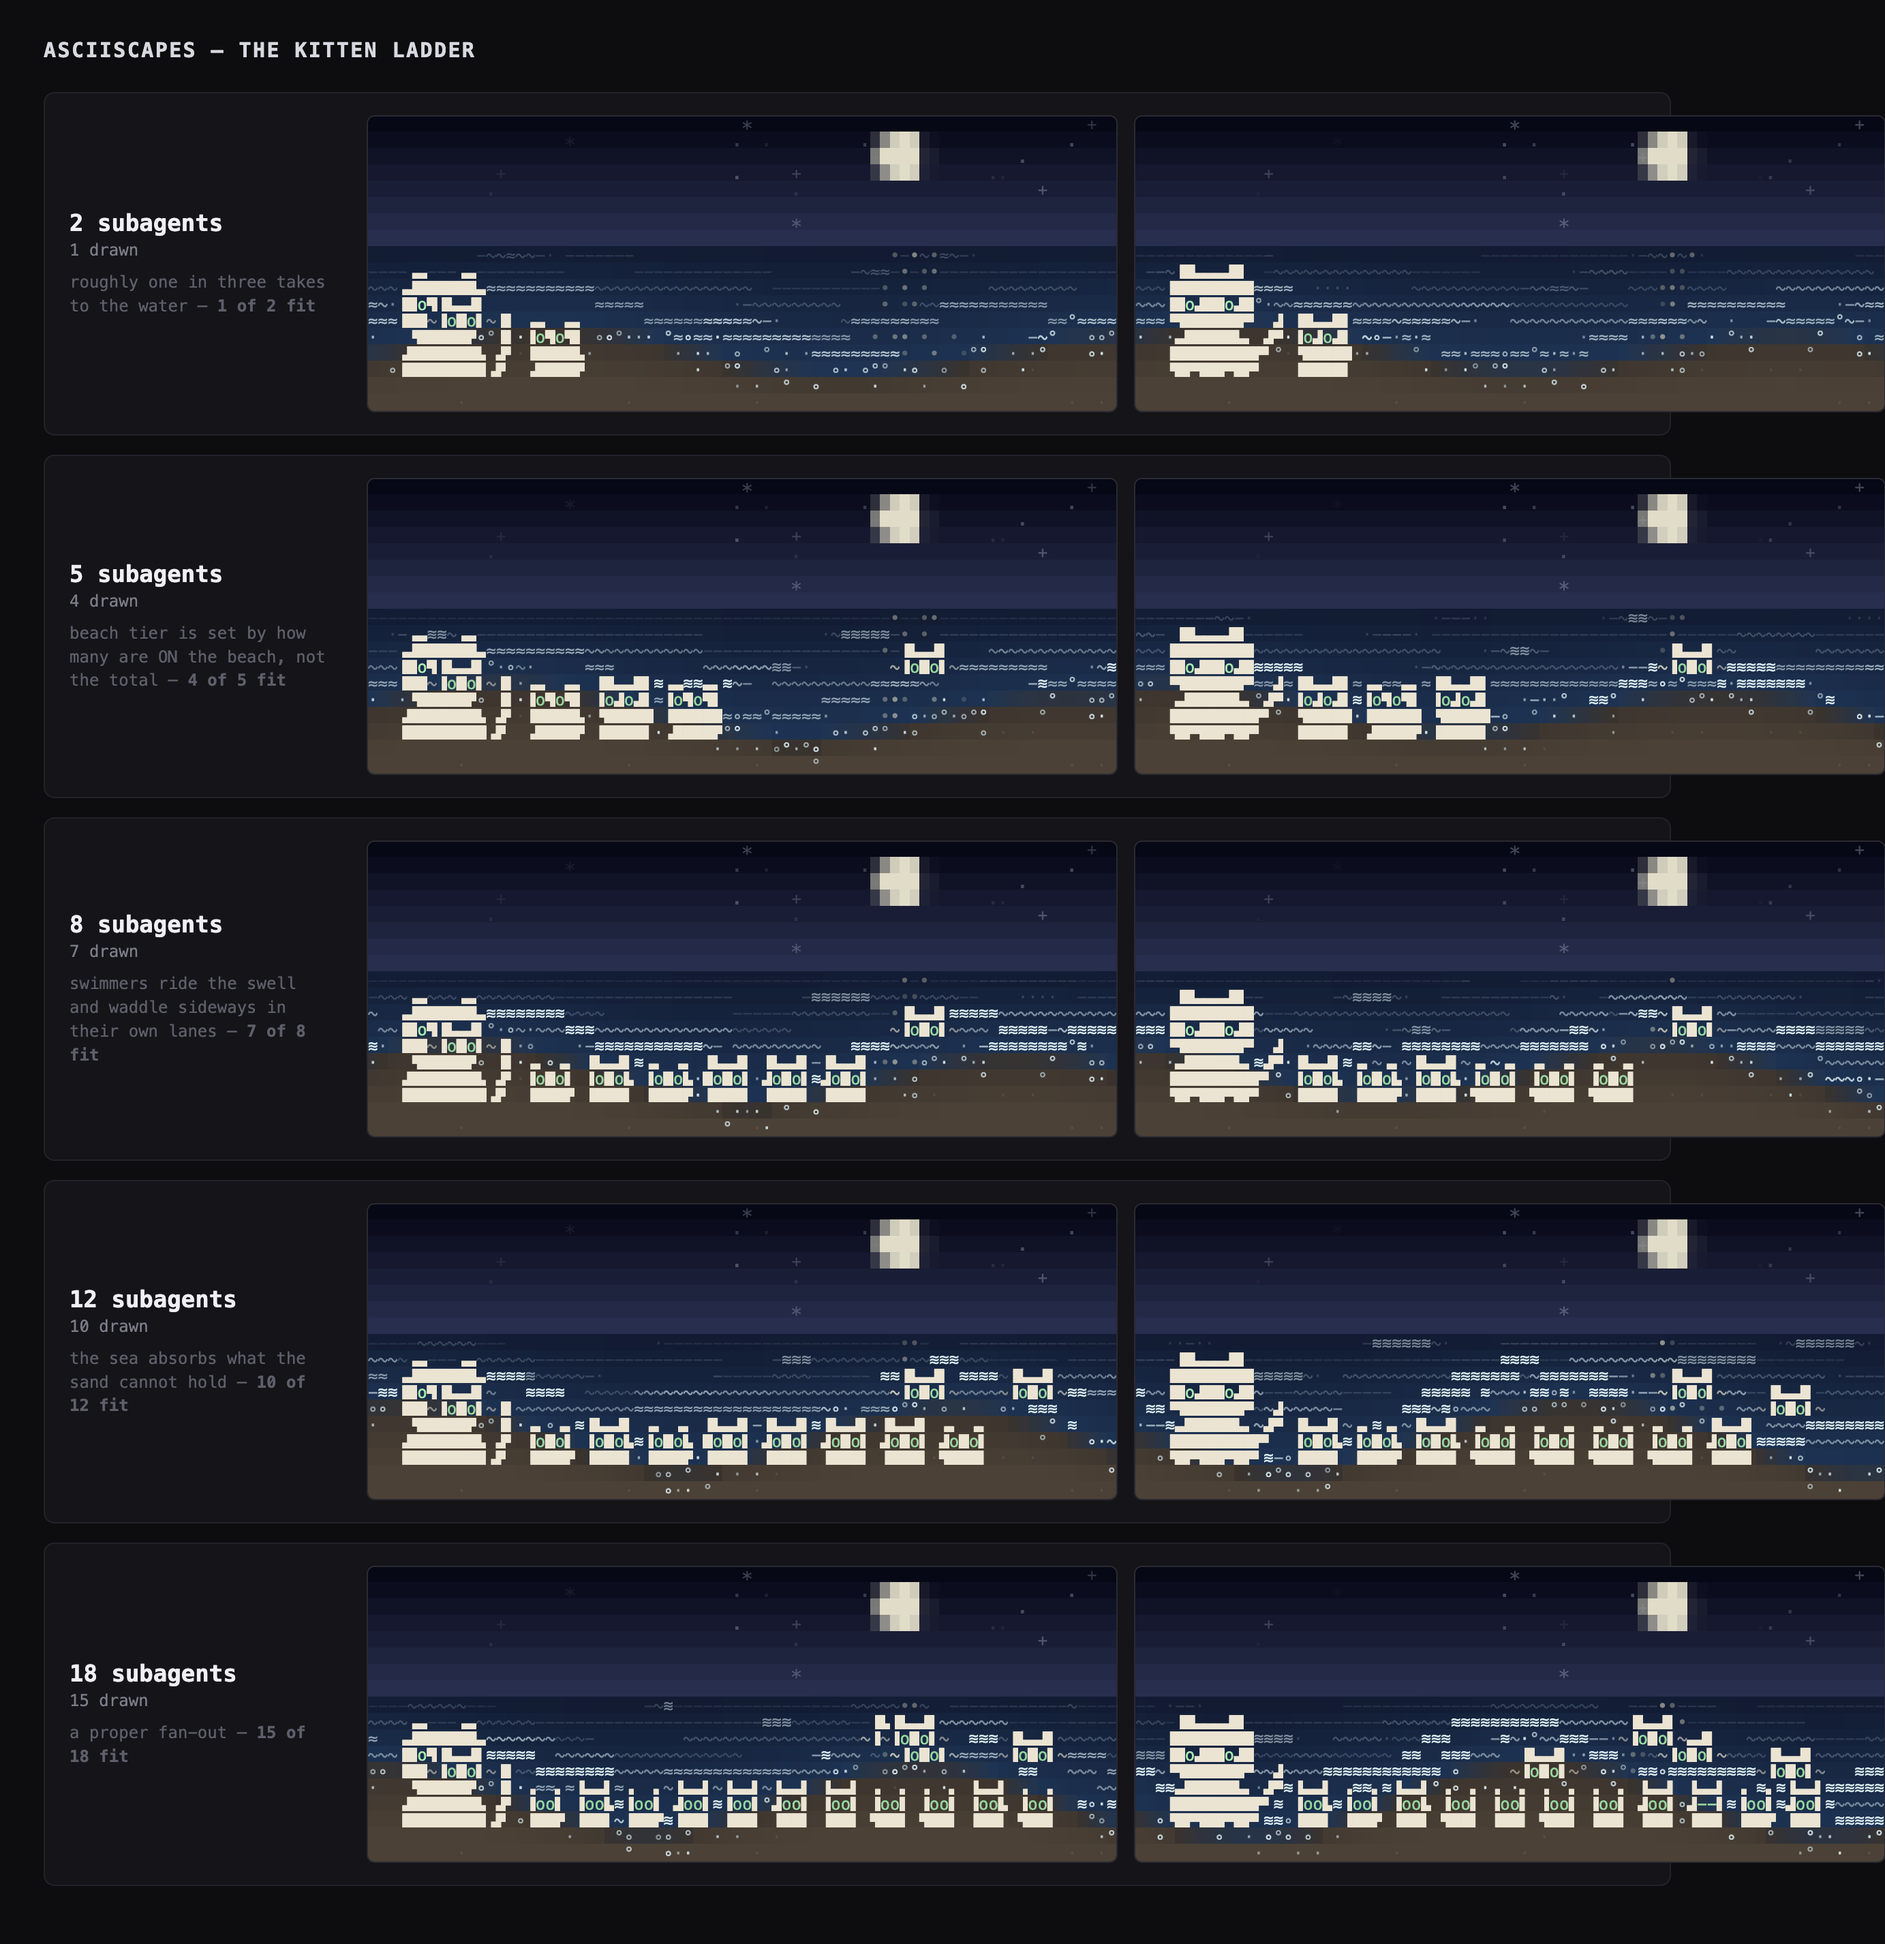
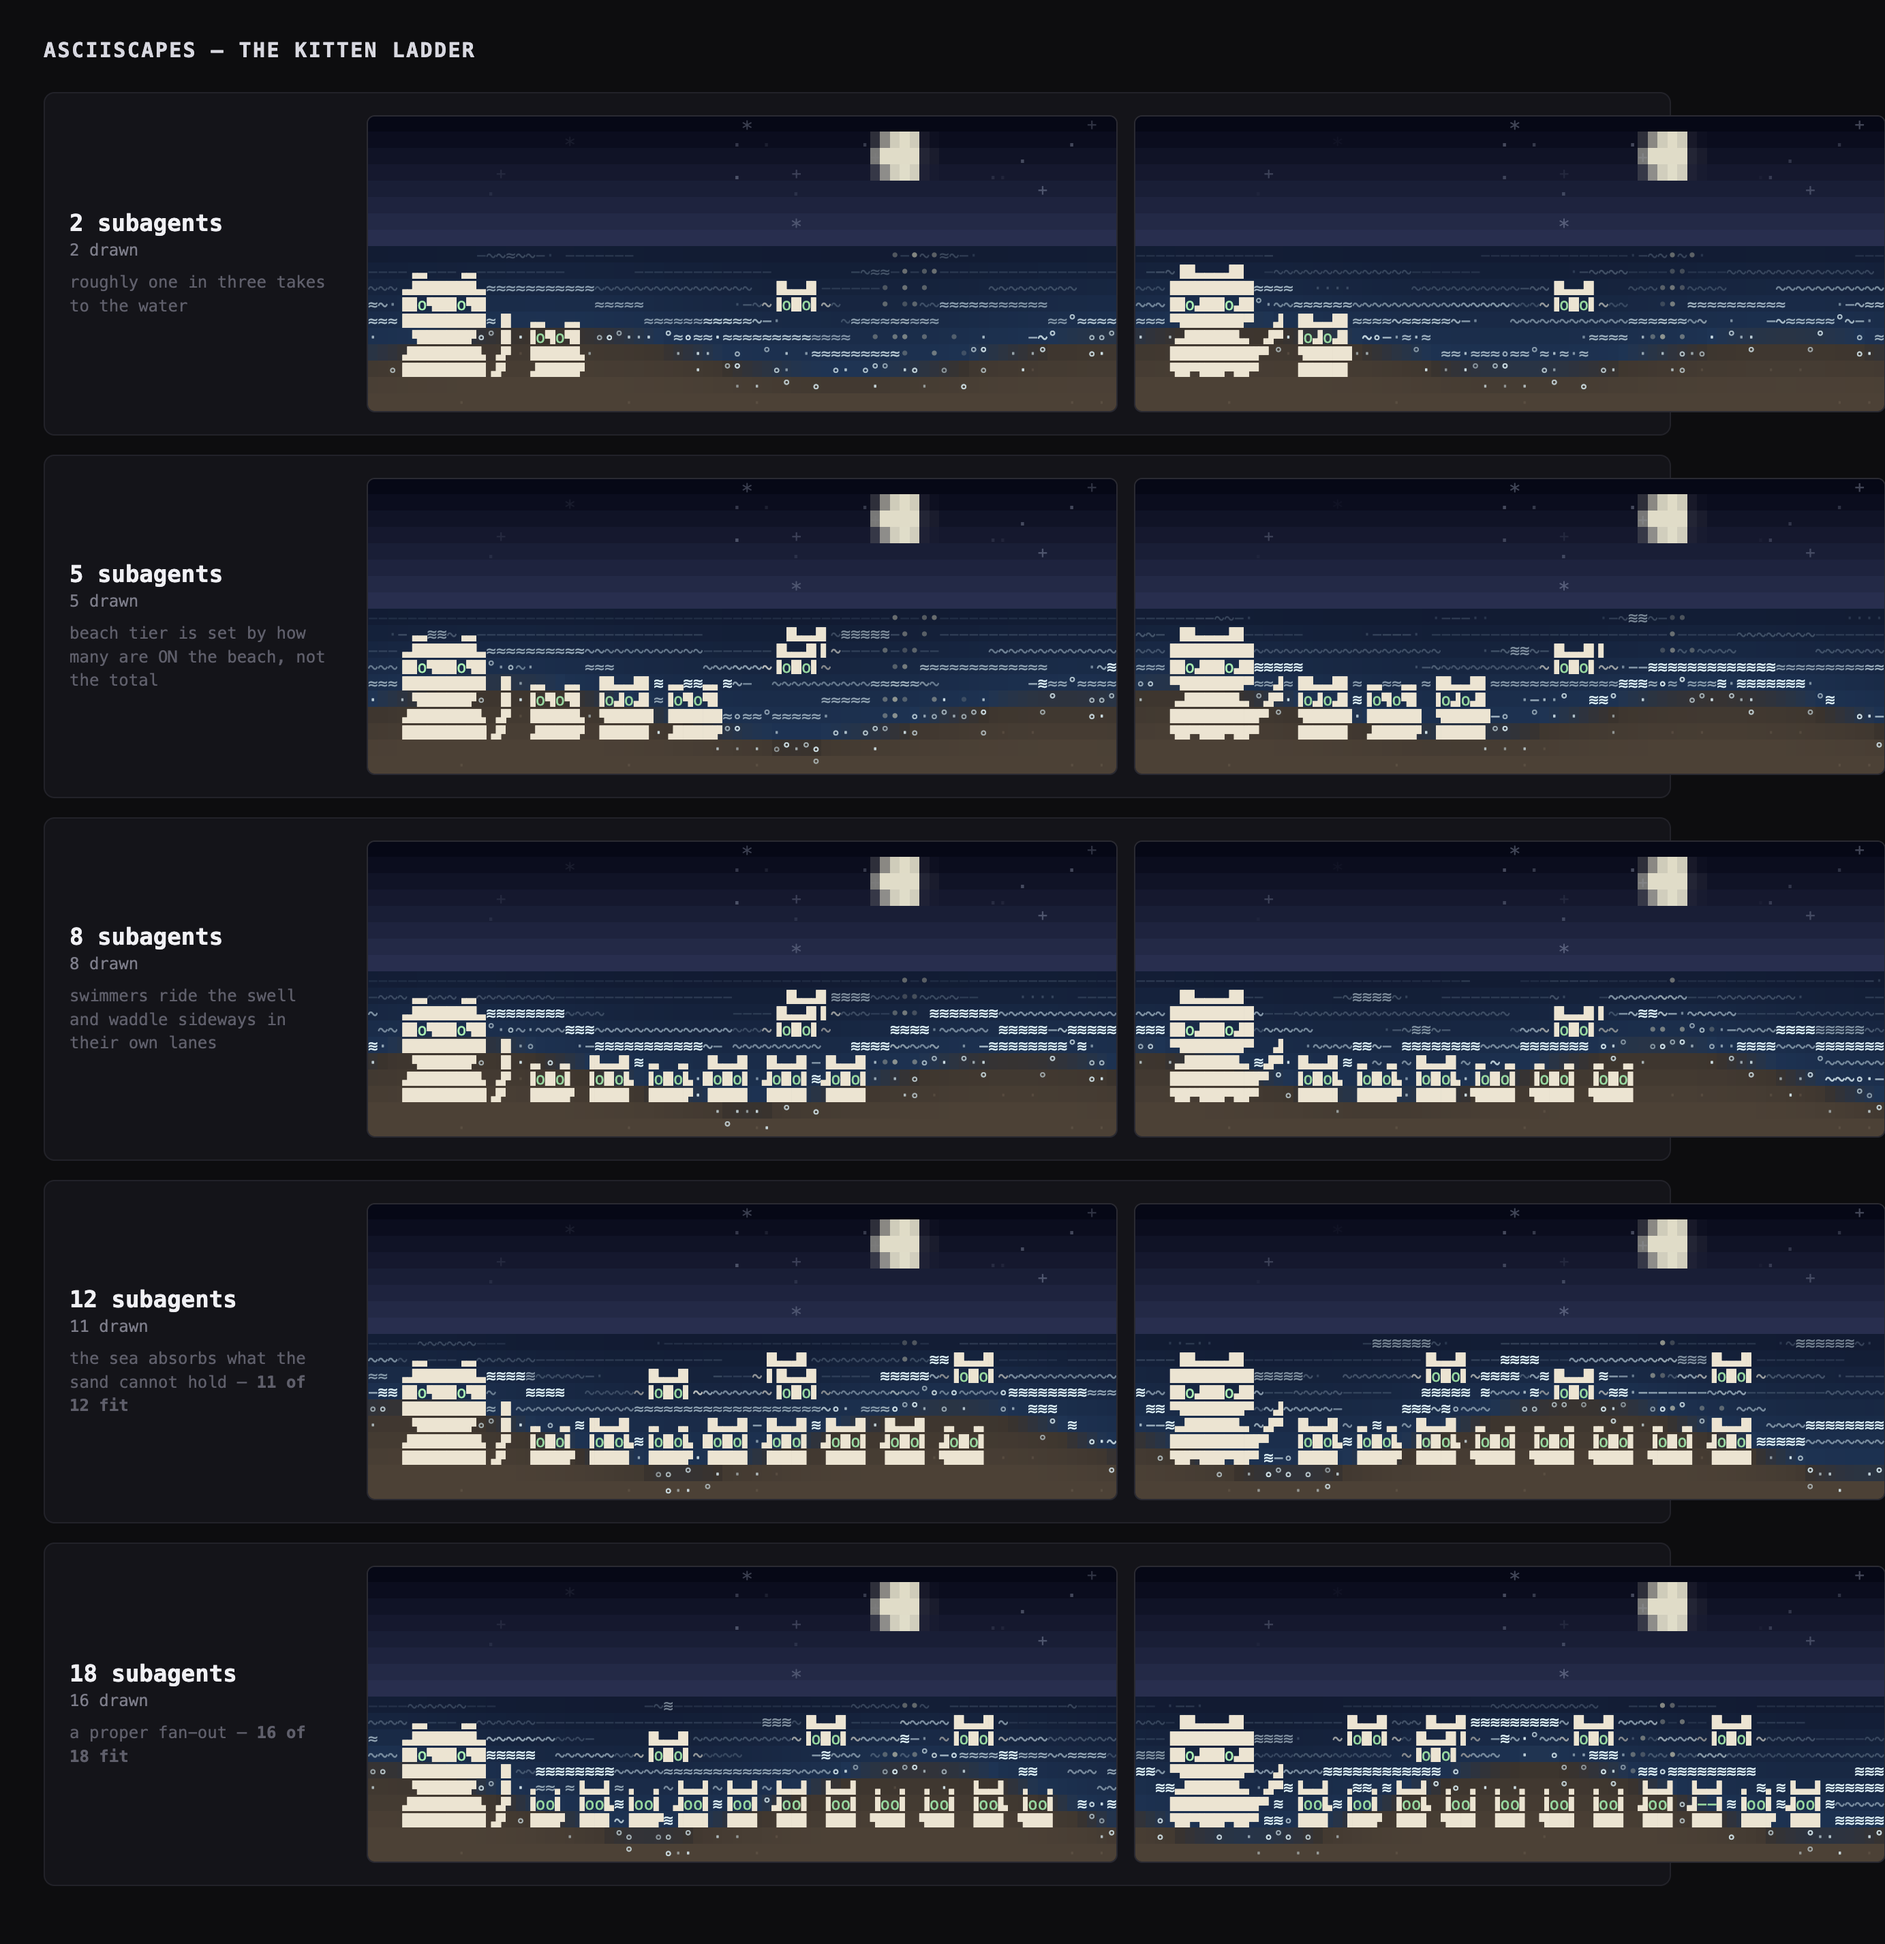
Stop swimmers overlapping each other and the parent
Two separate collisions.

Swimmer on swimmer: home columns were random, which looks fine at three
and piles them on top of each other at twelve. Positions are slotted
now -- each lane divides its width evenly so every swimmer owns a slot,
and the waddle is bounded by whatever slack is left in it.

Swimmer on parent: they started at px+2, which is inside the parent's
twelve-cell footprint, and they are drawn on the same layer afterwards,
so they painted straight over its face. They now start clear of it, like
the sitters do.

Claude-Session: https://claude.ai/code/session_019PBtf39rtmaj5ru2XNdm5i

diff --git a/internal/companion/kittens.go b/internal/companion/kittens.go
@@ -189,7 +189,12 @@ func (c *Cat) kitTail(b *Bitmap, segs, srcW int, wag float64, lift int) {
 }
 
 // drawSwimmers puts kittens in the sea, bobbing on the swell and waddling
-// slowly sideways. Each one keeps its own lane, so they do not converge.
+// slowly sideways.
+//
+// Positions are SLOTTED, not random. Each swimmer gets a lane, and within a
+// lane the width is divided evenly so every swimmer owns a slot; the waddle is
+// then bounded by whatever slack is left in that slot. Random home columns
+// looked fine at three swimmers and piled them on top of each other at twelve.
 func (c *Cat) drawSwimmers(l *canvas.Layer, idx []int, px, py, w, seaTop int, t float64, seed int64) int {
 	if len(idx) == 0 {
 		return 0
@@ -198,62 +203,97 @@ func (c *Cat) drawSwimmers(l *canvas.Layer, idx []int, px, py, w, seaTop int, t 
 		c.swim = ParseBitmap(KittenSwim)
 	}
 	kw, kh := c.swim.W/2, c.swim.H/4
-	// Open water runs from just under the horizon down to just above the sand.
-	// It is NOT the strip above the parent's head -- the parent stands on the
-	// beach in front of the sea, so its rows overlap the water it is standing
-	// before. Measuring the zone that way left one row and drew no swimmers.
+	// Open water runs from just under the horizon down to a clear row above the
+	// sand, so a swimmer in the lowest lane cannot touch a sitter's ears.
 	_, ph := c.Size()
 	top := seaTop + 1
-	bot := py + ph - 3
+	bot := py + ph - 4
 	lanes := bot - top
 	if lanes < 1 {
 		return 0
 	}
-	wake := '~'
+
+	// Bucket by lane, keeping index order so the layout is deterministic.
+	byLane := make([][]int, lanes)
+	for _, i := range idx {
+		ln := int(HashF(i, 13, seed) * float64(lanes))
+		if ln >= lanes {
+			ln = lanes - 1
+		}
+		byLane[ln] = append(byLane[ln], i)
+	}
+
+	// Start clear of the parent. Swimmers are drawn on the same layer and after
+	// it, so anything overlapping its footprint paints straight over its face.
+	pw, _ := c.Size()
+	x0 := px + pw + 1
+	span := w - x0 - 1
+	if span < kw+2 {
+		return 0
+	}
 	drawn := 0
 
-	for k, i := range idx {
-		phase := HashF(i, 12, seed) * 6.283
-		// Lane and home column are fixed per subagent; only the wander moves.
-		lane := int(HashF(i, 13, seed) * float64(lanes))
-		home := px + 2 + int(HashF(i, 14, seed)*float64(w-px-8))
-		x := home + int(2.5*math.Sin(t*0.32+phase))
-		y := top + lane
-
-		// Ride the swell rather than bobbing on a private clock.
-		if math.Sin(t*0.9+float64(x)*0.16+phase) > 0.35 {
-			y--
-		}
-		if x < 1 || x+kw >= w || y < top || y+kh > bot {
+	for ln := 0; ln < lanes; ln++ {
+		members := byLane[ln]
+		if len(members) == 0 {
 			continue
 		}
+		slot := span / len(members)
+		if slot < kw+1 {
+			// Lane is oversubscribed; take what fits and drop the rest.
+			members = members[:max(1, span/(kw+1))]
+			slot = span / len(members)
+		}
+		for k, i := range members {
+			phase := HashF(i, 12, seed) * 6.283
+			slack := (slot - kw) / 2
+			if slack > 3 {
+				slack = 3
+			}
+			if slack < 0 {
+				slack = 0
+			}
+			x := x0 + k*slot + (slot-kw)/2 + int(float64(slack)*math.Sin(t*0.32+phase))
+			y := top + ln
+			// Ride the swell rather than bobbing on a private clock.
+			if math.Sin(t*0.9+float64(x)*0.16+phase) > 0.35 {
+				y--
+			}
+			if x < 1 || x+kw >= w || y < top || y+kh > bot {
+				continue
+			}
 
-		f := c.swim.Blank()
-		for sy := 0; sy < f.H; sy++ {
-			for sx := 0; sx < f.W; sx++ {
-				if c.swim.at(sx, sy) {
-					f.Set(sx, sy)
+			f := c.swim.Blank()
+			for sy := 0; sy < f.H; sy++ {
+				for sx := 0; sx < f.W; sx++ {
+					if c.swim.at(sx, sy) {
+						f.Set(sx, sy)
+					}
 				}
 			}
-		}
-		if HashF(i, 15, seed) > 0.5 {
-			f = f.Mirrored()
-		}
-		(&Sprite{Rows: f.ToQuadrant(), Body: furCol, Alpha: 1}).Draw(l, x, y)
+			if HashF(i, 15, seed) > 0.5 {
+				f = f.Mirrored()
+			}
+			(&Sprite{Rows: f.ToQuadrant(), Body: furCol, Alpha: 1}).Draw(l, x, y)
 
-		e := eyeCols["kittenSwim"]
-		glyph := 'o'
-		if math.Mod(t+phase, 4.2+HashF(i, 16, seed)*3) < 0.17 {
-			glyph = '-'
+			e := eyeCols["kittenSwim"]
+			glyph := 'o'
+			if math.Mod(t+phase, 4.2+HashF(i, 16, seed)*3) < 0.17 {
+				glyph = '-'
+			}
+			l.Plot(x+e[0], y+1, glyph, kittenEye, 1)
+			l.Plot(x+e[1], y+1, glyph, kittenEye, 1)
+			l.Plot(x-1, y+kh-1, '~', furCol, 0.5)
+			l.Plot(x+kw, y+kh-1, '~', furCol, 0.5)
+			drawn++
 		}
-		l.Plot(x+e[0], y+1, glyph, kittenEye, 1)
-		l.Plot(x+e[1], y+1, glyph, kittenEye, 1)
-
-		// A little wake, so they sit IN the water rather than on it.
-		l.Plot(x-1, y+kh-1, wake, furCol, 0.5)
-		l.Plot(x+kw, y+kh-1, wake, furCol, 0.5)
-		_ = k
-		drawn++
 	}
 	return drawn
+}
+
+func max(a, b int) int {
+	if a > b {
+		return a
+	}
+	return b
 }
